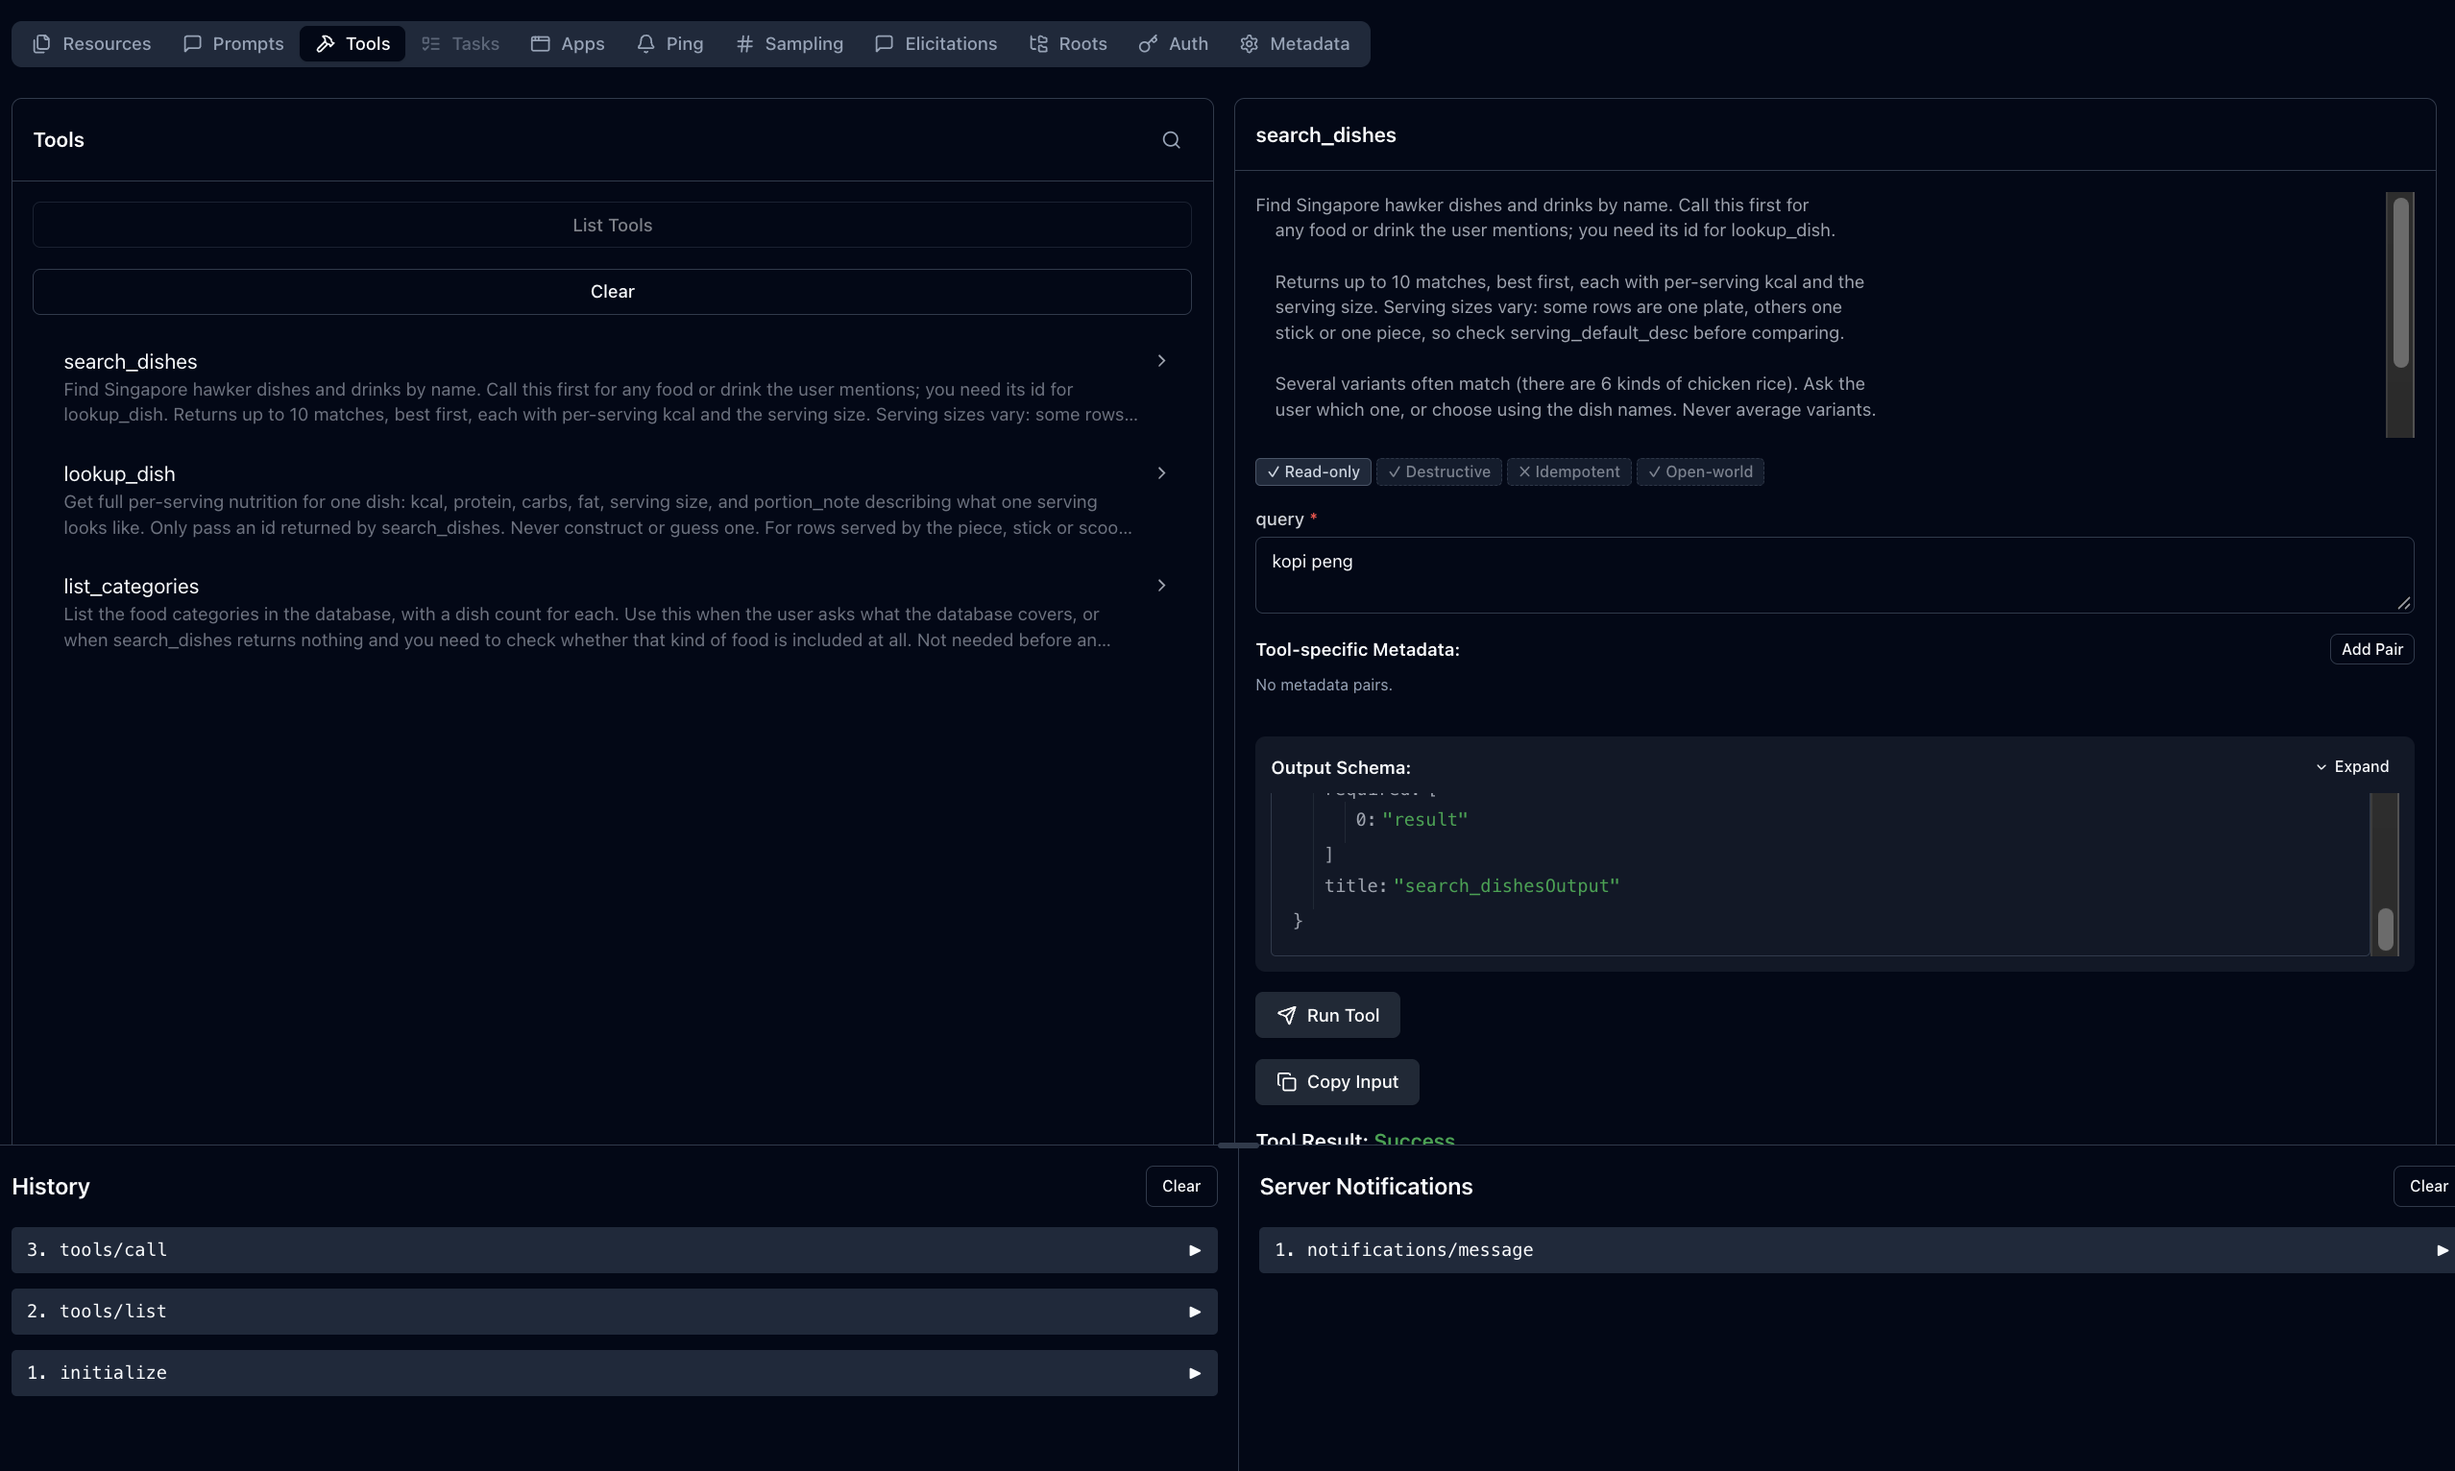
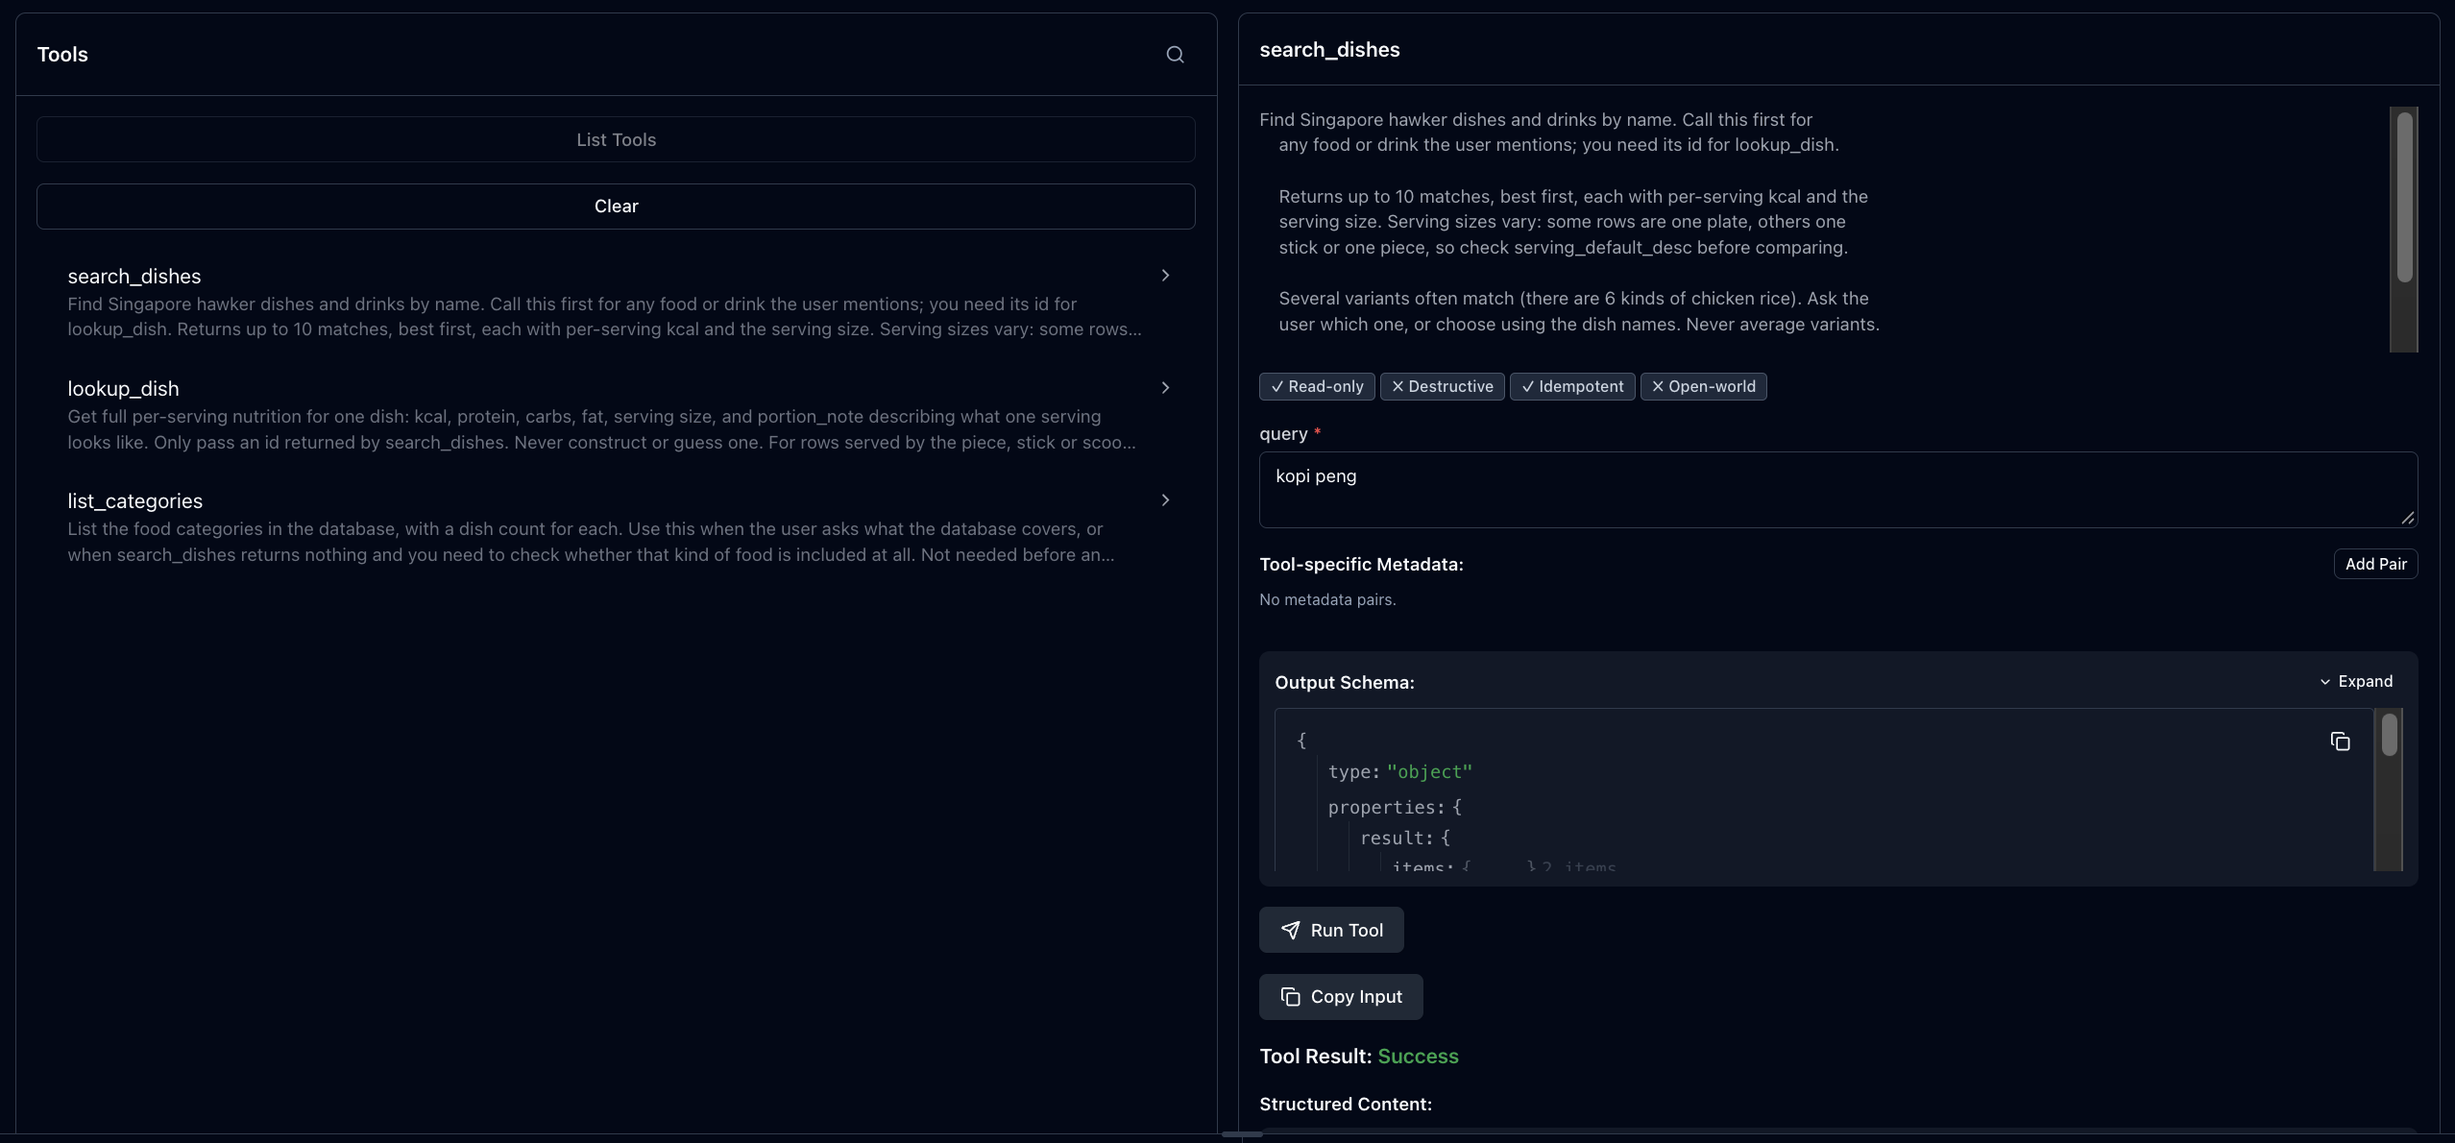
Set all four tool hints; tidy notebook paths and CLAUDE.md status

diff --git a/src/server.py b/src/server.py
@@ -22,7 +22,14 @@ server = MCPServer(
     ),
 )
 
-READ_ONLY = ToolAnnotations(read_only_hint=True)
+# All four are set explicitly: unset hints fall back to the spec defaults
+# (destructive, non-idempotent, open-world), which a client then displays.
+READ_ONLY = ToolAnnotations(
+    read_only_hint=True,
+    destructive_hint=False,
+    idempotent_hint=True,
+    open_world_hint=False,
+)
 
 
 @server.tool(annotations=READ_ONLY)

diff --git a/CLAUDE.md b/CLAUDE.md
@@ -1,8 +1,9 @@
 # sg-food-mcp
 
-An MCP server exposing Singapore hawker food nutrition (HPB data, CC0), plus a
-photo-to-calories estimator built on top of it. Design rationale lives in
-DECISIONS.md — read it before proposing changes to the data model.
+An MCP server exposing Singapore hawker food nutrition (HPB data, CC0). The
+server and its data layer work; a photo-to-calories estimator on top of them is
+the next piece and does not exist yet. Design rationale lives in DECISIONS.md —
+read it before proposing changes to the data model.
 
 ## Environment
 
